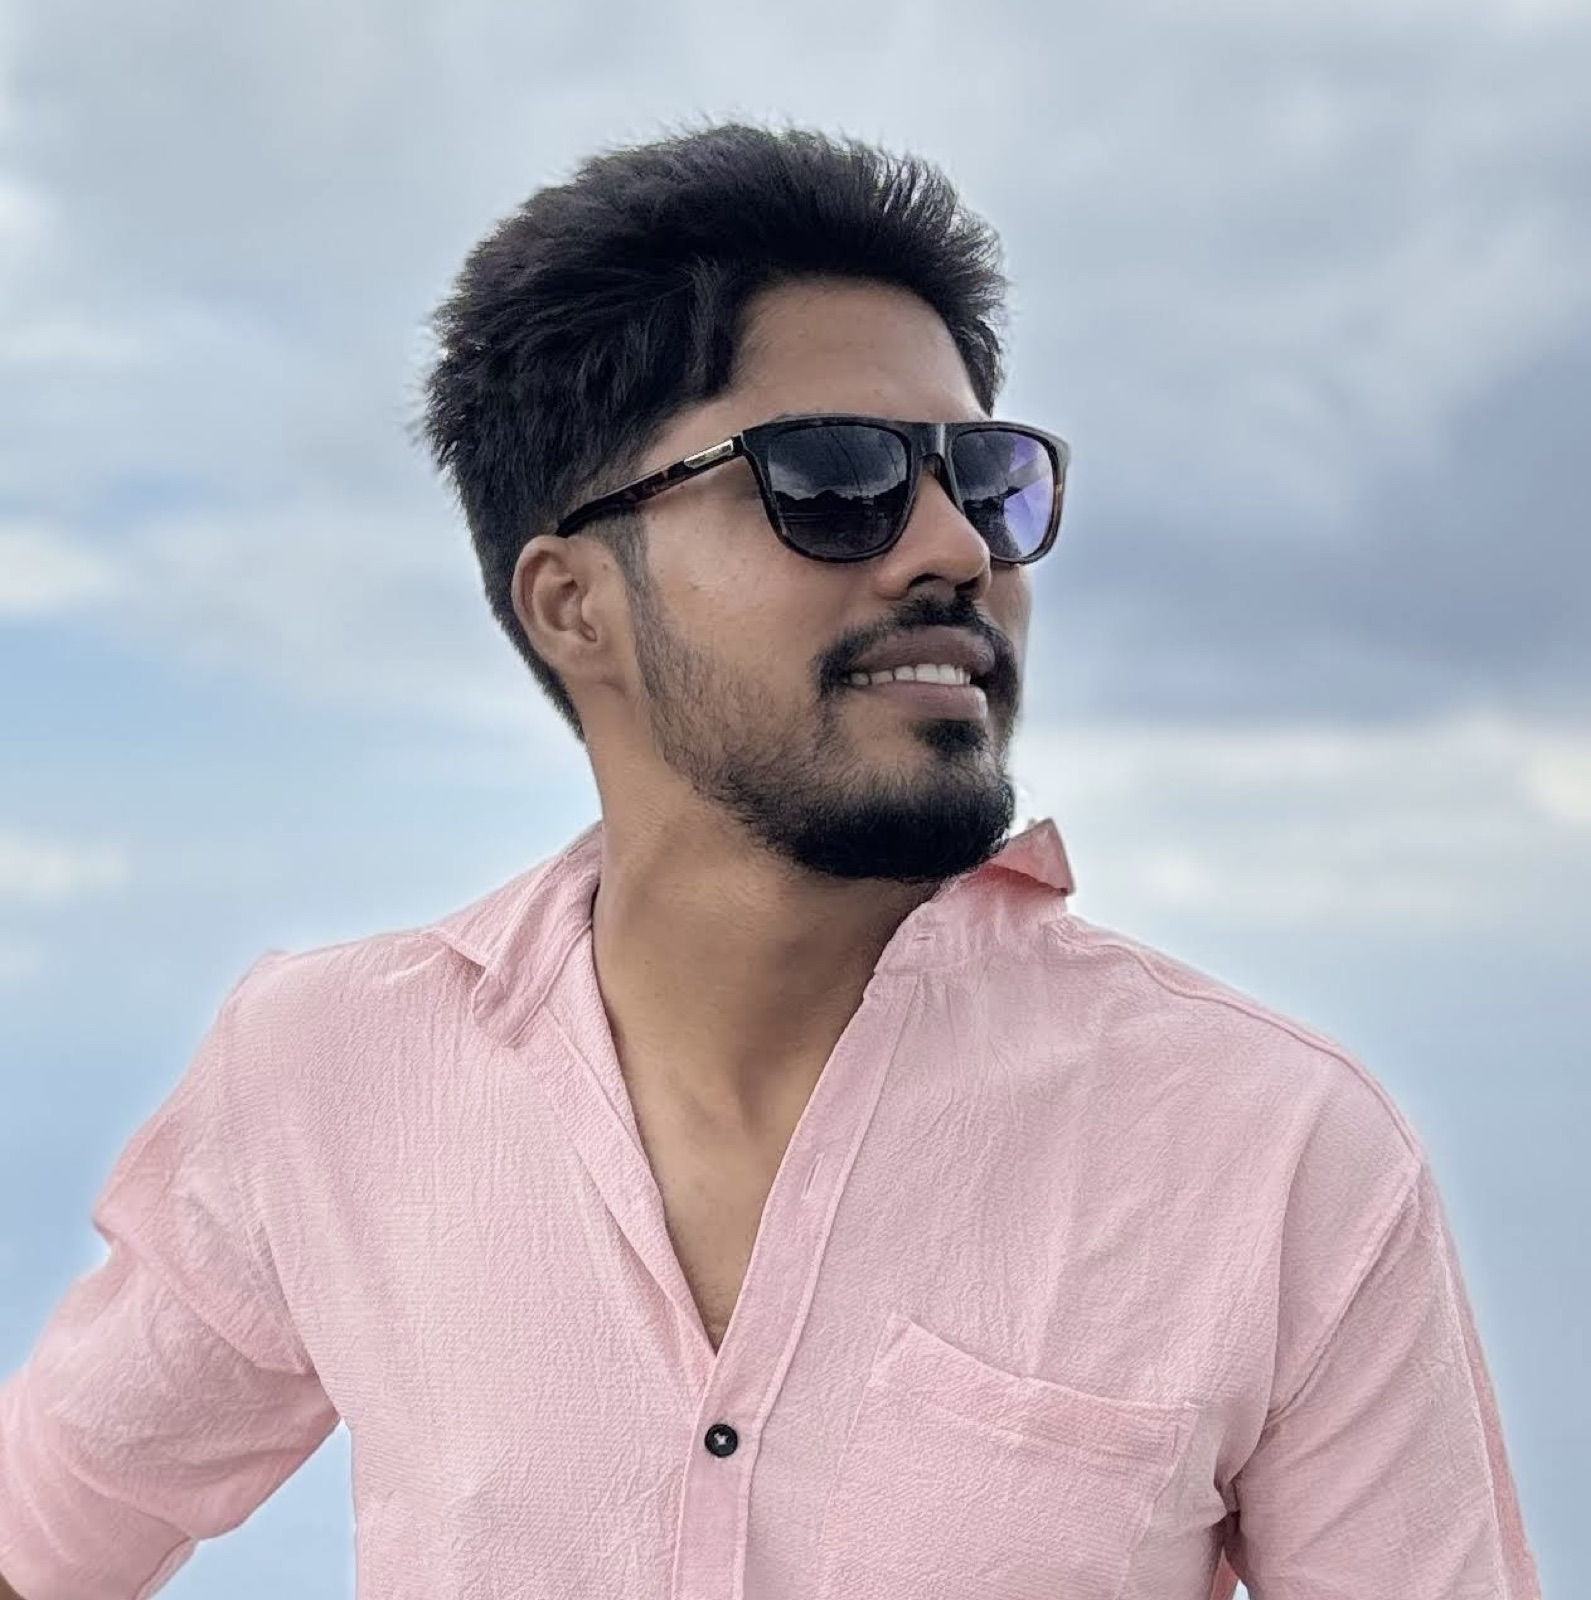
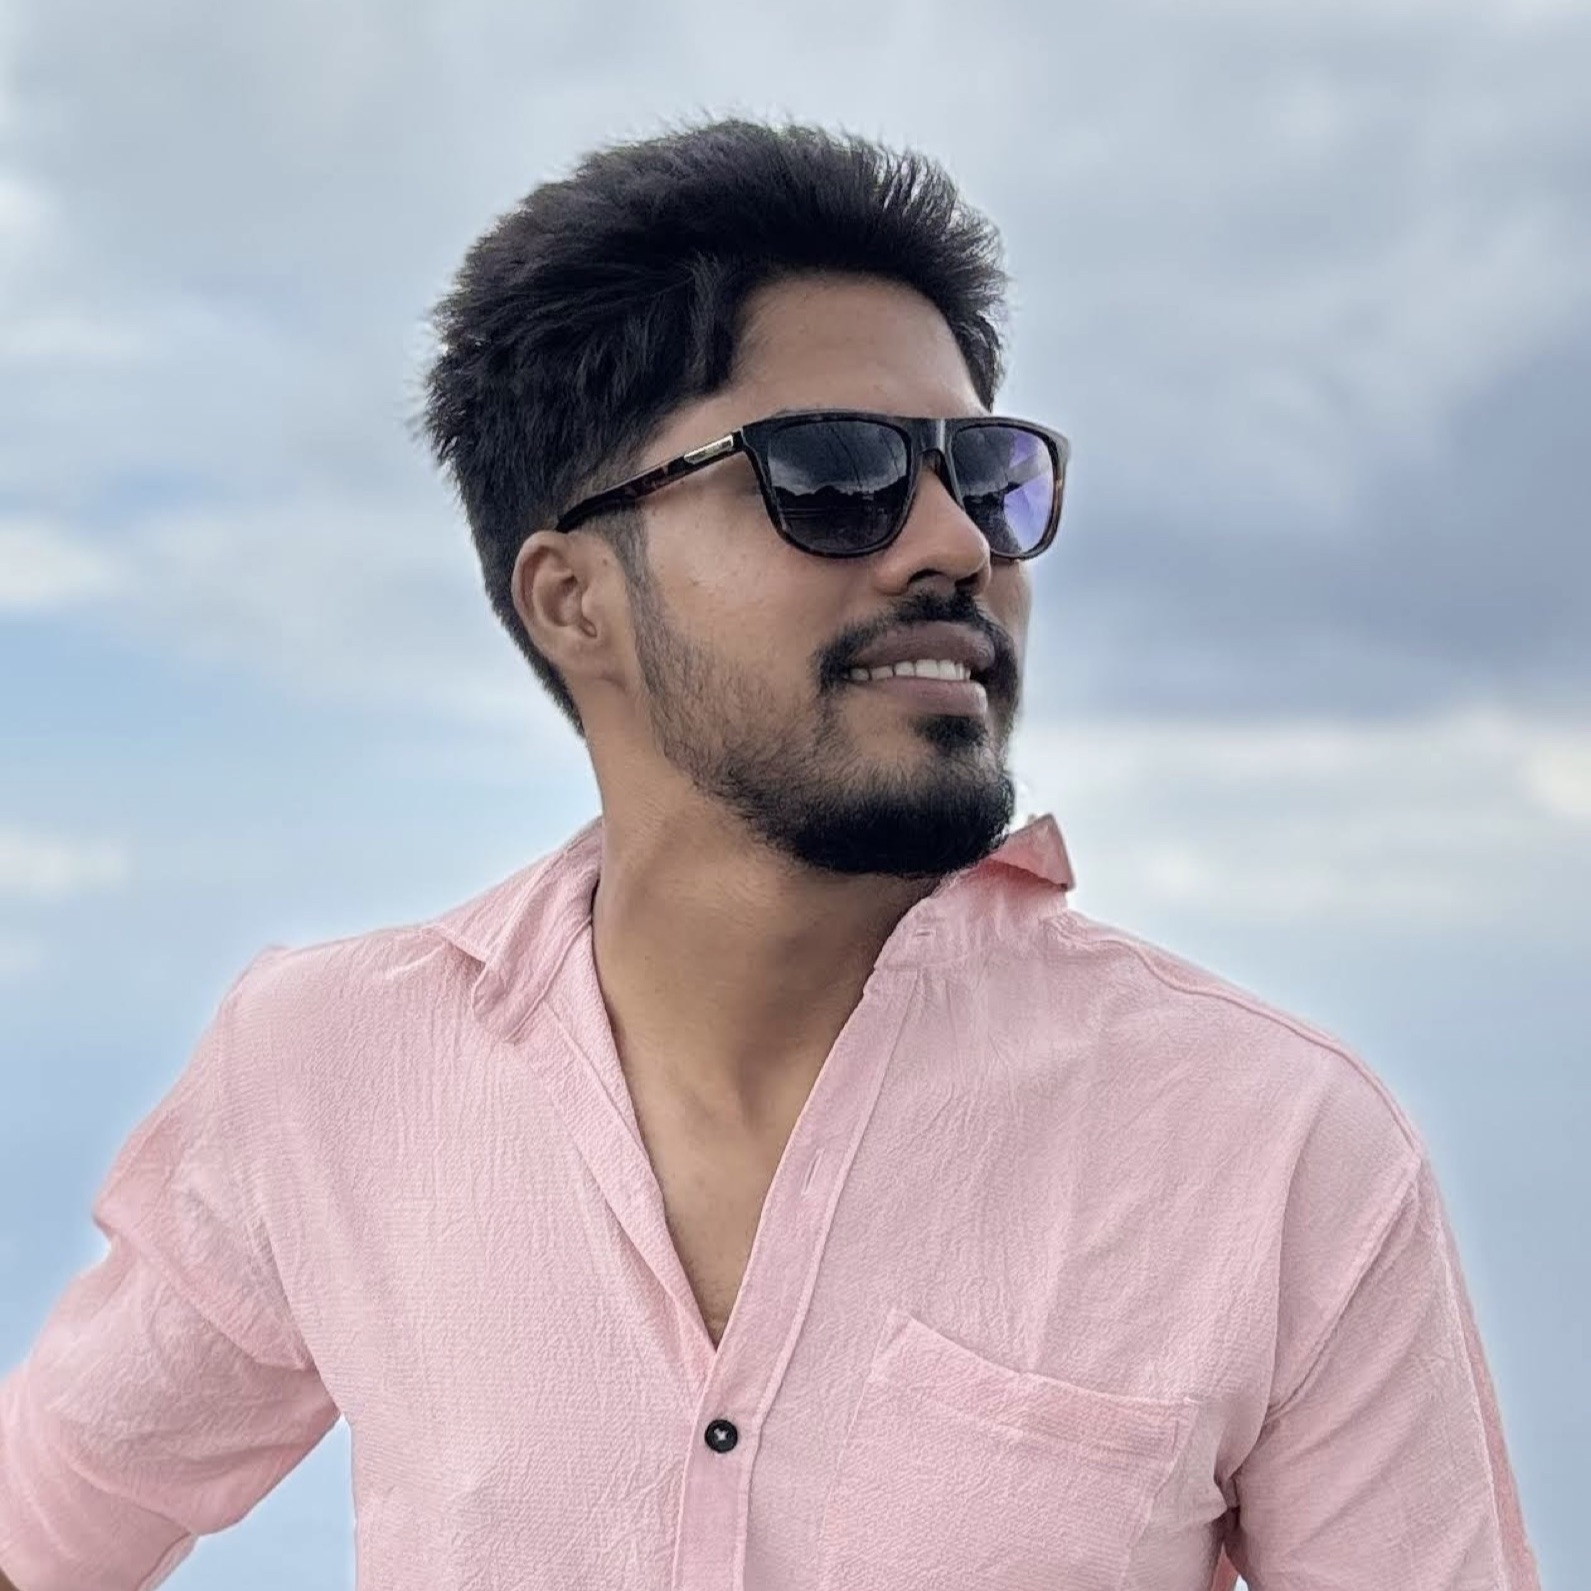
Make the sunglasses portrait exactly square so its AVIF sizes keep the aspect ratio

diff --git a/data/content.ts b/data/content.ts
@@ -368,7 +368,7 @@ export const gallery = {
     { src: "/photos/abinash-sambandham-finance-video.jpg", alt: "Abinash Sambandham smiling in a black polo shirt in front of a green backdrop with the word Finance", caption: "Abinash Sambandham · Personal finance video", width: 900, height: 1600 },
     { src: "/photos/abinash-sambandham-smiling-portrait-pink-shirt.jpg", alt: "Abinash Sambandham smiling in a pink shirt against a cloudy sky", caption: "Abinash Sambandham · Portrait", width: 1600, height: 1066 },
     { src: "/photos/abinash-sambandham-rooftop-evening.jpg", alt: "Abinash Sambandham sitting on a rooftop wall in a black shirt at dusk", caption: "Abinash Sambandham · Rooftop, evening", width: 1200, height: 1600 },
-    { src: "/photos/abinash-sambandham-sunglasses-portrait.jpg", alt: "Abinash Sambandham in sunglasses and a pink shirt, looking to the side", caption: "Abinash Sambandham · Portrait in sunglasses", width: 1591, height: 1600 },
+    { src: "/photos/abinash-sambandham-sunglasses-portrait.jpg", alt: "Abinash Sambandham in sunglasses and a pink shirt, looking to the side", caption: "Abinash Sambandham · Portrait in sunglasses", width: 1591, height: 1591 },
     { src: "/photos/abinash-sambandham-sitting-on-stone-steps.jpg", alt: "Abinash Sambandham smiling while sitting on stone steps in a green hoodie", caption: "Abinash Sambandham · Campus steps", width: 1600, height: 1600 },
     { src: "/photos/abinash-sambandham-playing-guitar.jpg", alt: "Abinash Sambandham playing an acoustic guitar outdoors", caption: "Abinash Sambandham · Playing guitar", width: 1600, height: 1600 },
     { src: "/photos/abinash-sambandham-riding-motorbike.jpg", alt: "Abinash Sambandham riding a motorbike on a tree-lined road", caption: "Abinash Sambandham · On the road", width: 1066, height: 1600 },
